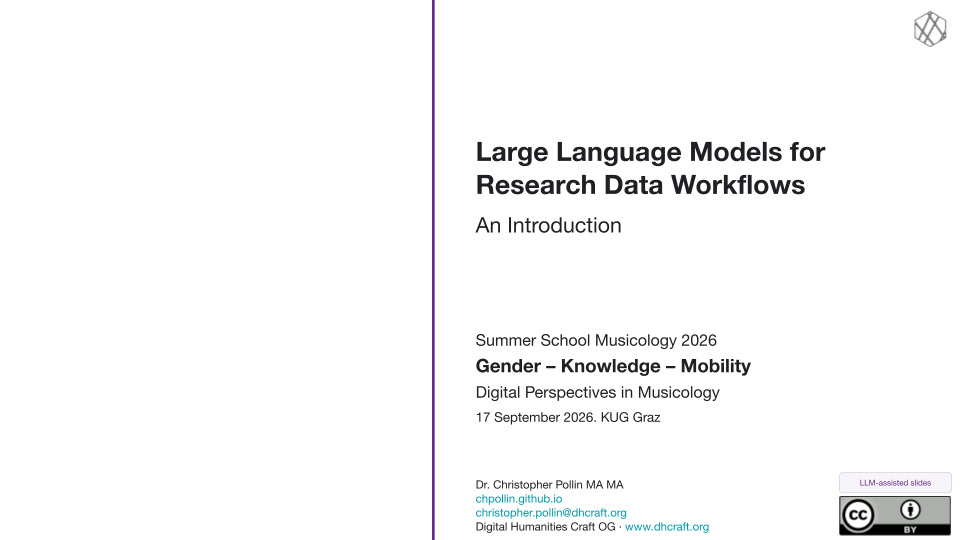
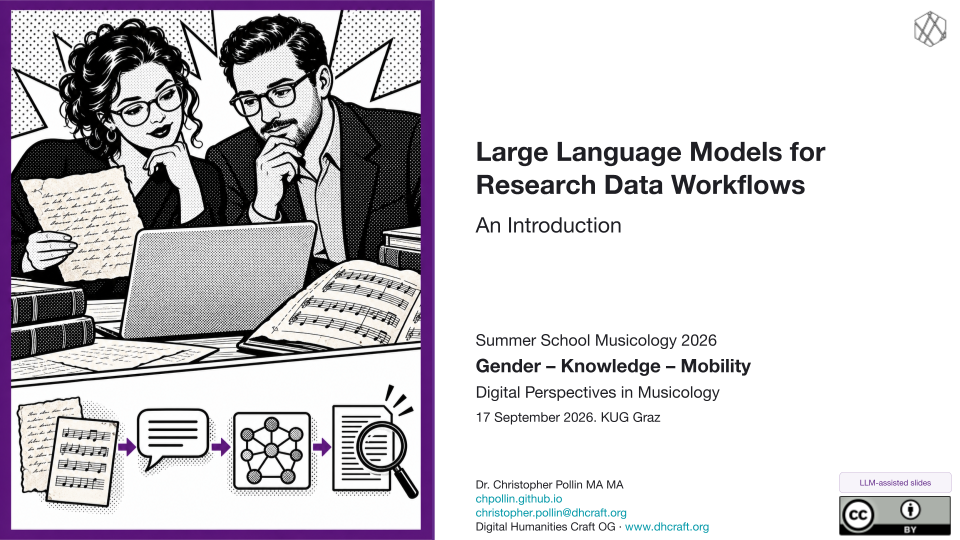
Übungsfolge vereinheitlichen und bestehende Titelfolien illustrieren

Changed region(s): [[0.0, 0.0, 0.4688, 1.0]]

diff --git a/index.html b/index.html
@@ -25,7 +25,7 @@
 <p class="byline">Christopher Pollin · Digital Humanities Craft · University of Music and Performing Arts Graz · 16 and 17 September 2026</p>
 <div class="actions"><a class="button" href="#sessions">Go to the sessions</a><a class="button secondary" href="#downloads">Downloads</a></div>
 </div>
-<section id="sessions"><h2 class="visually-hidden">Sessions</h2><div class="grid"><a class="card" href="#session-1"><img src="assets/slides/session-1.png" width="960" height="540" alt="" decoding="async"><span class="number">Session 1 · Wed 16 Sep · 17:00–19:00</span><h3>Making Estate Materials Digitally Accessible</h3><p>Archival sources and research data</p></a><a class="card" href="#session-2"><img src="assets/slides/session-2.png" width="960" height="540" alt="" decoding="async"><span class="number">Session 2 · Thu 17 Sep · 11:30–13:00</span><h3>Large Language Models for Research Data Workflows: An Introduction</h3><p>Models, prompts and context</p></a><a class="card" href="#session-3"><img src="assets/slides/session-3.png" width="960" height="540" alt="" decoding="async"><span class="number">Sessions 3 and 4 · Thu 17 Sep · 15:00–16:30 and 17:00–18:30</span><h3>Large Language Models for Research Data Workflows: Hands-On Practice</h3><p>Promptotyping · guided practice and independent work</p></a></div></section>
+<section id="sessions"><h2 class="visually-hidden">Sessions</h2><div class="grid session-cards"><a class="card" href="#session-1"><img src="assets/slides/session-1.png" width="960" height="540" alt="" decoding="async"><span class="number">Session 1</span><span class="small">Wed 16 Sep · 17:00–19:00</span><h3>Making Estate Materials Digitally Accessible</h3><p>Archival sources and research data</p></a><a class="card" href="#session-2"><img src="assets/slides/session-2.png" width="960" height="540" alt="" decoding="async"><span class="number">Session 2</span><span class="small">Thu 17 Sep · 11:30–13:00</span><h3>Large Language Models for Research Data Workflows: An Introduction</h3><p>Models, prompts and context</p></a><a class="card" href="#session-3"><img src="assets/slides/session-3.png" width="960" height="540" alt="" decoding="async"><span class="number">Sessions 3 and 4</span><span class="small">Thu 17 Sep · 15:00–16:30 and 17:00–18:30</span><h3>Large Language Models for Research Data Workflows: Hands-On Practice</h3><p>Promptotyping · guided practice and independent work</p></a></div></section>
 <section id="session-1" class="session">
 <p class="eyebrow">Session 1 · Wednesday 16 September · 17:00–19:00</p>
 <h2>Making Estate Materials Digitally Accessible</h2>
@@ -34,7 +34,7 @@
 <div class="actions"><a class="button" href="https://docs.google.com/presentation/d/1vMd2UfI9MydUEN6MMOYT0LZcJ6MYv2DmK9AQbyzJ7xc/preview">Open slides</a><a class="button secondary" href="https://docs.google.com/presentation/d/1vMd2UfI9MydUEN6MMOYT0LZcJ6MYv2DmK9AQbyzJ7xc/export/pdf">Slides PDF</a><a class="button" href="https://docs.google.com/document/d/1DU6UbE4xURFZ3fkPn7MD2loZ2naPysFYX1ypeI0D_Kg/preview">Lecture notes</a><a class="button secondary" href="https://docs.google.com/document/d/1DU6UbE4xURFZ3fkPn7MD2loZ2naPysFYX1ypeI0D_Kg/export?format=pdf">Notes PDF</a></div>
 <details class="slides-embed"><summary>Show the slides on this page</summary><iframe class="embed slides" src="https://docs.google.com/presentation/d/1vMd2UfI9MydUEN6MMOYT0LZcJ6MYv2DmK9AQbyzJ7xc/embed?start=false&amp;loop=false&amp;delayms=3000" title="Session 1 slides" allowfullscreen loading="lazy"></iframe></details>
 <div class="panel"><h3>From XML to IIIF</h3><p>Combine your XML metadata and images, generate a manifest with Python, and inspect the result in Mirador. The viewer also accepts the XML directly.</p><div class="actions"><a class="button" href="tools/iiif-viewer/">Open the IIIF viewer</a><a class="button secondary" href="downloads/xml-iiif-workshop.zip">Download Python + IIIF package</a></div><p class="small">Script, XML template, two synthetic example images and an English guide.</p></div>
-<ul class="resources"><li><a href="downloads/pdf-to-images.zip">PDF to images · Python exercise package</a><br><span class="small">Script, two-page source PDF and instructions.</span></li><li><a href="https://drive.google.com/drive/folders/1Q5iiPsBfiaAWOK7Tuy9Z5LyiO0EUaZFJ">Source images and shared exercise files on Google Drive</a></li><li><a href="downloads/shared/schulnachricht.jpg">Schulnachricht · source image</a></li></ul>
+<ul class="resources"><li><a href="downloads/pdf-to-images.zip">PDF to images · Python exercise package</a><br><span class="small">Script, two-page source PDF and instructions.</span></li><li><a href="downloads/shared/schulnachricht.jpg">Schulnachricht · source image</a></li></ul>
 </section>
 <section id="session-2" class="session">
 <p class="eyebrow">Session 2 · Thursday 17 September · 11:30–13:00</p>
@@ -44,38 +44,60 @@
 <div class="actions"><a class="button" href="https://docs.google.com/presentation/d/1GUzZEVdCq2gRphzXIsnZ1Gg_4bGdqYy_aiwl8kErJUc/preview">Open slides</a><a class="button secondary" href="https://docs.google.com/presentation/d/1GUzZEVdCq2gRphzXIsnZ1Gg_4bGdqYy_aiwl8kErJUc/export/pdf">Slides PDF</a><a class="button" href="https://docs.google.com/document/d/18DUWW5ju8R827mf7LNPU_zSoxd2R8WF8ienI8fCcFrM/preview">Lecture notes</a><a class="button secondary" href="https://docs.google.com/document/d/18DUWW5ju8R827mf7LNPU_zSoxd2R8WF8ienI8fCcFrM/export?format=pdf">Notes PDF</a></div>
 <details class="slides-embed"><summary>Show the slides on this page</summary><iframe class="embed slides" src="https://docs.google.com/presentation/d/1GUzZEVdCq2gRphzXIsnZ1Gg_4bGdqYy_aiwl8kErJUc/embed?start=false&amp;loop=false&amp;delayms=3000" title="Session 2 slides" allowfullscreen loading="lazy"></iframe></details>
 <div class="panel"><p class="eyebrow">Session 2 · Extended hands-on</p><h3>From Facsimiles to TEI</h3><p>Create complete transcriptions, extract document metadata and combine both in simple TEI-XML. Work through seven documents with 40 scan pages and keep the images linked for Session 3.</p><div class="actions"><a class="button" href="materials/m3gim-fulltext.html">Open the exercise &amp; downloads</a></div><p class="small">PDFs, PNGs, prompts, a TEI template, a local checker and complete reference files.</p></div>
-<ul class="resources"><li><a href="https://docs.google.com/presentation/d/19zybf1mABP3qM65GXv0xEGVososbhM03P9_INInYPj8/preview">Technical preparation slides</a></li><li><a href="https://drive.google.com/drive/folders/1Q5iiPsBfiaAWOK7Tuy9Z5LyiO0EUaZFJ">Shared source material and exercise files</a></li></ul>
+<ul class="resources"><li><a href="https://docs.google.com/presentation/d/19zybf1mABP3qM65GXv0xEGVososbhM03P9_INInYPj8/preview">Technical preparation slides</a></li></ul>
 </section>
 <section id="session-3" class="session">
 <p class="eyebrow">Sessions 3 and 4 · Thursday 17 September · 15:00–16:30 and 17:00–18:30</p>
 <h2>Large Language Models for Research Data Workflows: Hands-On Practice</h2>
-<p class="lead">Use LLMs for coding and build small research tools through Promptotyping. Maintain project knowledge, select useful context and guide tool-supported agent work with checks and feedback.</p>
-<div class="grid"><article class="panel"><h3>Session 3 · Guided hands-on · 15:00–16:30</h3><p>Work through a cumulative exercise with the supplied research materials. Inspect the inputs, document the requirements, use an agent to implement a first working tool and check the result together.</p></article><article class="panel" id="session-4"><h3>Session 4 · Independent work · 17:00–18:30</h3><p>Continue from the guided exercise. Choose a research requirement, provide the relevant project context, implement it with the agent and inspect the result against the sources.</p></article></div><p class="small">Both sessions use the same slide deck and lecture notes.</p>
+<p class="lead">Use LLMs for coding and build small research tools through Promptotyping.</p>
+<div class="grid"><article class="panel"><h3>Session 3 · Guided hands-on · 15:00–16:30</h3><p>Run the supplied PDF-to-PNG workflow yourself, repeat it with an agent, then use LLMs for coding a small research tool. Document requirements and check each result together.</p></article><article class="panel" id="session-4"><h3>Session 4 · Independent work · 17:00–18:30</h3><p>Continue from the guided exercise with a research requirement of your choice. Maintain the project knowledge, select the context for each task and use the agent to implement and check your changes.</p></article></div><p class="small">Both sessions use the same slide deck and lecture notes.</p>
 <div class="actions"><a class="button" href="https://docs.google.com/presentation/d/1IOCdHFnlxyNuMwiyUNviyQ53KwD13k4_tRXpieXHgOo/preview">Open slides</a><a class="button secondary" href="https://docs.google.com/presentation/d/1IOCdHFnlxyNuMwiyUNviyQ53KwD13k4_tRXpieXHgOo/export/pdf">Slides PDF</a><a class="button" href="https://docs.google.com/document/d/138Kl6CCtpZI3BM6VHGEgpFuZPVZJTfJT5FH8ASIdHPA/preview">Lecture notes</a><a class="button secondary" href="https://docs.google.com/document/d/138Kl6CCtpZI3BM6VHGEgpFuZPVZJTfJT5FH8ASIdHPA/export?format=pdf">Notes PDF</a></div>
 <details class="slides-embed"><summary>Show the slides on this page</summary><iframe class="embed slides" src="https://docs.google.com/presentation/d/1IOCdHFnlxyNuMwiyUNviyQ53KwD13k4_tRXpieXHgOo/embed?start=false&amp;loop=false&amp;delayms=3000" title="Sessions 3 and 4 slides" allowfullscreen loading="lazy"></iframe></details>
-<div class="panel"><h3>Continue with your TEI corpus</h3><p>Bring the seven TEI files and 40 PNGs prepared in Session 2. Keep the <code>tei/</code> and <code>png/</code> folders together so the image links remain usable.</p><div class="actions"><a class="button secondary" href="materials/m3gim-fulltext.html#next-session">Corpus layout &amp; reference bundle</a></div></div>
-<ul class="resources"><li><a href="downloads/python-vscode.zip">Hands-on 1 · Python in Visual Studio Code · ZIP</a><br><span class="small">Instructions, Python script and all seven input PDFs.</span></li><li><a href="downloads/ai-harness.zip">Hands-on 2 · AI Harness · ZIP</a><br><span class="small">Repeat the same workflow with an agent using the supplied script and PDFs.</span></li><li><a href="https://drive.google.com/drive/folders/1KhFwP1L1iUO6PBKQZGP4p8rxU2vZSfG0">Original exercise folders on Google Drive</a></li><li><a href="https://drive.google.com/drive/folders/1bS_F8yDOWWK89cLeFzj6nFxz9GBH18Qa">Hands-on 1 · Python in Visual Studio Code</a></li><li><a href="https://drive.google.com/drive/folders/1tbZvvloLe4gZ5IBe9gsqqQfiiScgbP3F">Hands-on 2 · AI Harness</a></li><li><a href="https://drive.google.com/drive/folders/1Q5iiPsBfiaAWOK7Tuy9Z5LyiO0EUaZFJ">Shared source material and exercise files</a></li></ul>
+<div class="panel">
+<h3>From running a workflow to building a research tool</h3>
+<p>We return to PDF-to-PNG conversion to compare how you and an agent execute the same task. The TEI corpus from Session 2 becomes input for the tool-building exercise in step 3.</p>
+<ol class="workflow">
+<li><strong>Run the workflow yourself.</strong> Open the first package in Visual Studio Code, follow its guide and run the supplied script. Inspect the generated images against the PDFs.<br><a href="downloads/python-vscode.zip">Hands-on 1 · Python in Visual Studio Code · ZIP</a></li>
+<li><strong>Repeat the workflow with an agent.</strong> Give the agent the same task, script and PDFs. Observe its tool use, inspect the outputs and compare them with your first run.<br><a href="downloads/ai-harness.zip">Hands-on 2 · AI Harness · ZIP</a></li>
+<li><strong>Use LLMs for coding through Promptotyping.</strong> State a research requirement and record the relevant data, constraints and checks. Reuse your TEI files and images from Session 2 to implement and inspect a first tool together. A source viewer is the worked example.<br><a href="materials/m3gim-fulltext.html#next-session">TEI corpus layout &amp; reference bundle</a></li>
+<li><strong>Continue independently in Session 4.</strong> Choose a requirement for your own research tool or extend the guided example. Supply the relevant context, inspect the agent’s changes and verify the result against the data. Record what works and what remains uncertain.</li>
+</ol>
+<p class="small">Both hands-on ZIPs contain their guide, the supplied Python script and all seven input PDFs. Keep your Session 2 <code>tei/</code> and <code>png/</code> folders together so the image links remain usable.</p>
+<h3>Practices used throughout</h3>
+<dl class="practices"><dt>Knowledge Engineering</dt><dd>Maintain project knowledge about the research purpose, data, requirements, decisions and checks.</dd><dt>Context Engineering</dt><dd>Select the instructions, source material and project knowledge needed for the current task.</dd><dt>Agentic Engineering</dt><dd>Guide the agent’s tool use, inspect its actions and results, and provide feedback for the next change.</dd></dl>
+</div>
+
 </section>
 <section id="downloads">
 <h2>Downloads</h2>
+<p>Choose the package for the current exercise. Reference solutions and additional examples are listed separately below.</p>
+<h3>Exercise starter packages</h3>
 <ul class="resources">
 <li><a href="downloads/xml-iiif-workshop.zip" download>XML to IIIF · Python package</a><br><span class="small">Session 1 · script, XML template, two example images and guide.</span></li>
 <li><a href="downloads/pdf-to-images.zip" download>PDF pages as images · Python package</a><br><span class="small">Session 1 · script, two-page source PDF and instructions.</span></li>
-<li><a href="materials/m3gim-fulltext.html">M³GIM · From Facsimiles to TEI</a><br><span class="small">Sessions 2–4 · PDFs, PNGs, prompts, TEI template, checker and reference files.</span></li>
-<li><a href="tools/iiif-viewer/">IIIF viewer</a><br><span class="small">Open your XML or manifest with its images in Mirador.</span></li>
-<li><a href="https://docs.google.com/presentation/d/19zybf1mABP3qM65GXv0xEGVososbhM03P9_INInYPj8/preview">Technical preparation slides</a></li>
-<li><a href="https://drive.google.com/drive/folders/1TaqB-BvNt20uAvOCCnQMQBk_2cV0gLjW">Course material folder on Google Drive</a></li>
-<li><a href="downloads/python-vscode.zip">Hands-on 1 · Python in Visual Studio Code · ZIP</a></li>
-<li><a href="downloads/ai-harness.zip">Hands-on 2 · AI Harness · ZIP</a></li>
+<li><a href="materials/m3gim-fulltext.html#materials">M³GIM · From Facsimiles to TEI · exercise &amp; starter files</a><br><span class="small">Session 2 · source PDFs, PNGs, prompts, TEI template and checker.</span></li>
+<li><a href="downloads/python-vscode.zip">Hands-on 1 · Python in Visual Studio Code · ZIP</a><br><span class="small">Session 3 · run the supplied PDF-to-PNG script yourself; guide and all seven PDFs included.</span></li>
+<li><a href="downloads/ai-harness.zip">Hands-on 2 · AI Harness · ZIP</a><br><span class="small">Session 3 · repeat the same workflow with an agent; guide, script and PDFs included.</span></li>
+</ul>
+<h3>Reference solutions</h3>
+<ul class="resources">
+<li><a href="materials/m3gim-fulltext.html#reference">M³GIM · TEI, metadata and full texts</a><br><span class="small">Compare your work with the reference and resolve differences against the facsimiles.</span></li>
+<li><a href="downloads/m3gim-fulltext/m3gim-next-session.zip">Reference TEI + all images · ZIP</a><br><span class="small">Sessions 3 and 4 · complete corpus for tool building, with working relative image links.</span></li>
+</ul>
+<h3>Additional examples and source material</h3>
+<ul class="resources">
 <li><a href="downloads/shared-materials.zip">Additional source material and examples · ZIP</a><br><span class="small">Source image, prompts, place lookup, poster text, person-index exercise and map demo.</span></li>
+<li><a href="tools/iiif-viewer/">IIIF viewer</a><br><span class="small">Open your XML or manifest with its images in Mirador.</span></li>
+</ul>
+<details><summary>Download individual additional files</summary><ul class="resources">
 <li><a href="downloads/shared/schulnachricht.jpg">Schulnachricht · source image</a></li>
 <li><a href="downloads/shared/prompts.md">Bayreuth 1953 · additional extraction and prototype prompts</a></li>
 <li><a href="downloads/shared/orte-lookup.csv">Place lookup · CSV</a></li>
 <li><a href="downloads/shared/plakattext-pl04.txt">Poster text · TXT</a></li>
 <li><a href="downloads/shared/personenindex-uebung.xlsx">Person-index exercise · XLSX</a></li>
 <li><a href="downloads/shared/m3gim-map-demo.zip">Additional map example · ZIP</a></li>
-<li><a href="https://drive.google.com/drive/folders/1Q5iiPsBfiaAWOK7Tuy9Z5LyiO0EUaZFJ">Original shared files on Google Drive</a></li>
-</ul>
+</ul></details>
+<p class="small"><a href="https://docs.google.com/presentation/d/19zybf1mABP3qM65GXv0xEGVososbhM03P9_INInYPj8/preview">Technical preparation slides</a> · <a href="https://drive.google.com/drive/folders/1TaqB-BvNt20uAvOCCnQMQBk_2cV0gLjW">Original course folders on Google Drive</a></p>
 </section>
 </main>
 <footer><div class="wrap">

diff --git a/assets/site.css b/assets/site.css
@@ -68,6 +68,7 @@
   nav { display: flex; gap: var(--space-2) var(--space-5); flex-wrap: wrap; font-size: 0.9375rem; }
   .hero { padding-block: clamp(2rem, 5vw, 4rem) clamp(1.5rem, 3vw, 2.5rem); max-inline-size: 60rem; }
   .grid { display: grid; grid-template-columns: repeat(auto-fit, minmax(min(100%, var(--card-min)), 1fr)); gap: var(--space-5); }
+  .session-cards { --card-min: 19rem; }
   .session { border-block-start: 1px solid var(--line); padding-block-start: var(--space-6); }
   .session-nav { display: flex; justify-content: space-between; flex-wrap: wrap; gap: var(--space-4); border-block-start: 1px solid var(--line); padding-block-start: var(--space-5); margin-block: var(--space-6); }
   footer { border-block-start: 1px solid var(--line); margin-block-start: var(--space-6); padding-block: var(--space-5) var(--space-6); font-size: var(--text-s); color: var(--muted); }
@@ -91,6 +92,9 @@
   .card .number { color: var(--accent); font-size: 0.8125rem; font-weight: 750; letter-spacing: 0.06em; }
   .card h3 { margin-block: 0; }
   .card p { margin-block: 0; color: var(--muted); }
+  .session-cards .card { padding: var(--space-4); gap: var(--space-2); }
+  .session-cards h3 { font-size: 1.125rem; text-wrap: pretty; }
+  .session-cards .card p { font-size: var(--text-s); }
   .panel { background: var(--tint); padding: var(--space-5); border-radius: var(--radius); margin-block: var(--space-4); }
   .actions { display: flex; flex-wrap: wrap; gap: var(--space-3); margin-block: var(--space-4); }
   .button { display: inline-block; padding: 0.625rem 1.125rem; border-radius: 7px; background: var(--accent); color: var(--surface); text-decoration: none; font-size: 0.9375rem; font-weight: 650; border: 1px solid var(--accent); cursor: pointer; }
@@ -104,6 +108,9 @@
   .workflow { max-inline-size: 56rem; padding-inline-start: 1.4em; }
   .workflow li { margin-block-end: var(--space-4); padding-inline-start: var(--space-1); }
   .workflow-line { color: var(--accent); font-weight: 650; }
+  .practices { margin-block: var(--space-4) 0; max-inline-size: 56rem; }
+  .practices dt { font-weight: 650; }
+  .practices dd { margin-inline-start: 0; margin-block: 0 var(--space-3); }
   .metadata-table { inline-size: 100%; border-collapse: collapse; text-align: start; font-size: 0.9375rem; }
   .metadata-table th, .metadata-table td { padding: var(--space-3); border-block-end: 1px solid var(--line); vertical-align: top; }
   .metadata-table thead { background: var(--tint); }

diff --git a/knowledge/journal.md b/knowledge/journal.md
@@ -15,13 +15,21 @@ related: [handoff, project, specification]
 
 # Journal
 
+Curated provenance index of the course website, read alongside `project.md` and `specification.md` for the current state and `handoff.md` for open handover points.
+
+## 2026-09-15 · integriert · Übungsfolge, Titelbilder und Materialzugang
+
+Auf Nutzerauftrag wurden Website, gemeinsame Lecture Notes und Hands-on-Anleitungen auf dieselbe Übungsfolge abgestimmt. Eigene Skriptausführung und Agentenausführung bereiten den Bau eines kleinen Forschungswerkzeugs durch Promptotyping vor. Session 4 führt die Arbeit mit einer selbstgewählten Forschungsanforderung fort. Der vorhandene Abschnitt 1.2 mit Quellenanmerkungen [8]–[12] sowie native Fußnoten und Dokumentchips blieben erhalten. Alle elf exportierten Notes-Seiten wurden visuell geprüft. Der Folienchip führt zum gemeinsamen Deck, zeigt jedoch weiterhin seinen von Google zwischengespeicherten früheren Titel.
+
+Die Kursseite erhielt drei kompakte Übersichtskarten und gegliederte Downloads. Zwei mit dem integrierten Imagegen-Werkzeug erzeugte Pop-Art-Illustrationen ergänzen die vorhandenen Titelfolien. Bestehende Titelobjekte blieben unverändert; gleichzeitig erfolgte externe Änderungen innerhalb von Session 2 wurden erhalten. Prompts und Strukturprüfung liegen bei den Bilddateien. Der alte Session-4-Foliensatz und dessen Reader wurden in den benachbarten Drive-Ordner `1HqmFO4TNbQmGIH8JBFc_Ua780GcYqaxV` verschoben, die Kursmaterialien einheitlich benannt.
+
+Beide Anleitungen wurden unter ihren bestehenden Drive-IDs aktualisiert und durch erneuten Download bytegenau geprüft. Die neu gepackten ZIPs enthalten jeweils dieselben neun Dateien wie die lokalen Quellen. Der bereitgestellte Konverter verarbeitete alle sieben PDFs zu 40 PNG-Seiten ohne Fehler. Build- und lokale Linkprüfung bestanden; die aktualisierten Titel wurden visuell geprüft. Die fachliche Abnahme der Lehrkonzeption bleibt beim Lehrenden.
+
 ## 2026-09-15 · integriert · Gemeinsame Materialien für Session 3 und 4
 
 Auf Nutzerauftrag wurden Session 3 und 4 einem vorhandenen gemeinsamen Deck und gemeinsamen Lecture Notes zugeordnet. Die angeleitete, aufbauende Übung geht in selbständiges Arbeiten über. Das bestätigte Hauptziel ist die Nutzung von LLMs zum Programmieren und zum Bau kleiner Forschungswerkzeuge durch Promptotyping. Die vorhandene Lernzielfolie wurde entsprechend korrigiert; Folienbestand und Reihenfolge blieben identisch. Der gelieferte Abschnitt zu Context Engineering, Agentic Engineering und AI Harnesses einschließlich seiner Quellenanmerkungen wurde in die Notes integriert und um die Einordnung von Knowledge Engineering ergänzt. Allgemeine Inhalte des älteren Session-4-Skripts gingen in den Abschnitt zum selbständigen Arbeiten ein; dessen festgelegter Cast Explorer wurde als Pflichtziel aufgehoben.
 
 Die Website führt beide ursprünglichen Zeitblöcke und gemeinsame Dokumentlinks. Gespeicherte Dateien aus den Drive-Unterordnern wurden als direkte Downloads ergänzt. Die PDF-Kopien beider Hands-on-Pakete stimmen per SHA-256 mit den bereits veröffentlichten Quellen überein; jede Herkunft ist in `downloads/drive-materials.json` nachgewiesen. Die ZIPs wurden auf Vollständigkeit geprüft, die Website mit dem Build- und Linkcheck sowie im Browser und die geänderte Lernzielfolie visuell kontrolliert. Die übertragenen Python-Skripte wurden dabei nicht erneut ausgeführt. Der ursprüngliche Session-4-Reader bleibt als Quelldokument in Drive erhalten.
-
-Curated provenance index of the course website, read alongside `project.md` and `specification.md` for the current state and `handoff.md` for open handover points.
 
 ## 2026-09-15 · integrated · Repository created with Codex
 

diff --git a/README.md b/README.md
@@ -10,7 +10,7 @@ Gemeinsame Lehrwebsite für Christophers vier Sessions am 16. und 17. September 
 - `materials/m3gim-fulltext.html`: die M³GIM-Übung; `sessions/` und `materials/index.html` sind Weiterleitungen auf die Anker der Kursseite.
 - `tools/iiif-viewer/`: XML-/IIIF-Dateiauswahl und Mirador.
 - `downloads/`: Python-/IIIF-Paket, PDF-zu-Bildern-Übung und M³GIM-Paket.
-- `assets/`: Stylesheet, Favicon und die Titelfolien unter `assets/slides/`.
+- `assets/`: Stylesheet, Favicon und die Titelfolien unter `assets/slides/`; die neuen Illustrationen und ihre Generierungsprompts liegen unter `assets/illustrations/`.
 - `scripts/sessions.mjs`: das Materialverzeichnis der Sessions; `scripts/build-site.mjs` erzeugt daraus alle Seiten, `--check` prüft Drift und lokale Links; `scripts/fetch-title-slides.mjs` holt die Titelfolien; `scripts/build-iiif-package.py` packt das IIIF-Paket.
 - `knowledge/`: Projektwissen nach der Promptotyping-Konvention, Einstieg über `knowledge/INDEX.md`.
 
@@ -20,7 +20,11 @@ Die Titel und IDs wurden am 15. September 2026 im Google-Drive-Kursordner abgegl
 
 Google Drive bleibt der Bearbeitungsort der nativen Dokumente. Einbettungen und PDF-Exportlinks zeigen auf die aktuellen Google-Dokumente. Die Website verändert deren Freigaben nicht. Die gespeicherten Übungsdateien aus den Unterordnern liegen zusätzlich als direkte Downloads vor. `downloads/drive-materials.json` dokumentiert ihre Herkunft. Die Programm-PDFs aus beiden Hands-on-Ordnern wurden per SHA-256 mit den bestehenden lokalen PDFs verglichen und stimmen bytegenau überein.
 
-`downloads/python-vscode.zip` und `downloads/ai-harness.zip` enthalten jeweils Anleitung, unverändertes Python-Skript und die sieben PDFs im Unterordner `input/`. `downloads/shared-materials.zip` enthält die sechs Dateien des Drive-Datenordners; sie sind außerdem einzeln unter `downloads/shared/` erreichbar. Die dortige Schulnachricht trägt die Endung `.jpg`, weil die in Drive als `.png` benannte Datei JPEG-Daten enthält. Die ergänzenden Extraktionsprompts und das Kartenbeispiel legen kein Pflichtziel für die selbständige Arbeit fest. Die bereitgestellten Skripte wurden in dieser Übertragung nicht erneut ausgeführt.
+`downloads/python-vscode.zip` und `downloads/ai-harness.zip` enthalten jeweils Anleitung, unverändertes Python-Skript und die sieben PDFs im Unterordner `input/`. Die Anleitungen erläutern den Übergang von eigener Skriptausführung über die Ausführung durch einen Agenten zum Programmieren mit einem LLM. Sie sind in Drive und den ZIPs bytegleich. Der Konverter wurde mit allen sieben PDFs ausgeführt und erzeugte 40 PNG-Seiten ohne Fehler.
+
+`downloads/shared-materials.zip` enthält die sechs Dateien des Drive-Datenordners; sie sind außerdem einzeln unter `downloads/shared/` erreichbar. Die dortige Schulnachricht trägt die Endung `.jpg`, weil die in Drive als `.png` benannte Datei JPEG-Daten enthält. Die ergänzenden Extraktionsprompts und das Kartenbeispiel legen kein Pflichtziel für die selbständige Arbeit fest.
+
+Die aktuellen Drive-Dateien tragen einheitliche Session- und Materialbezeichnungen. Das frühere Session-4-Deck und dessen Reader liegen unverändert im benachbarten Ordner [Superseded Materials](https://drive.google.com/drive/folders/1HqmFO4TNbQmGIH8JBFc_Ua780GcYqaxV). Die Kursübersicht zeigt ausschließlich die aktuellen Materialien. Die neuen Titelillustrationen wurden in die vorhandenen Titelfolien von Session 2 und Sessions 3 und 4 eingefügt. Es wurden keine Folien erzeugt.
 
 Kursordner: https://drive.google.com/drive/folders/1TaqB-BvNt20uAvOCCnQMQBk_2cV0gLjW
 

diff --git a/downloads/ai-harness/README.md b/downloads/ai-harness/README.md
@@ -3,10 +3,16 @@
 Ask an AI agent in a harness with access to local files and a terminal to execute
 the same PDF-to-image workflow. Both hands-ons contain the same Python script
 and the same source PDFs.
+Complete Hands-on 1 first so that you can compare the agent's actions and
+results with your own execution.
 
 ## Folder structure
 
-Download the **whole exercise folder** from Google Drive and extract the ZIP file.
+Download [Hands-on 2 from the course website](https://chpollin.github.io/summer-school-musicology-2026/downloads/ai-harness.zip)
+and extract the ZIP file separately from Hands-on 1. If you are already reading
+this README in the extracted folder, continue below. The
+[original Google Drive folder](https://drive.google.com/drive/folders/1tbZvvloLe4gZ5IBe9gsqqQfiiScgbP3F)
+is an alternative download source.
 Open the extracted folder that contains `pdf_to_images.py`. Keep the script and
 `input` together:
 
@@ -31,7 +37,7 @@ search nested input folders.
 
 ## Run the workflow with an AI harness
 
-1. Download and extract this exercise folder separately from Hands-on 1.
+1. Use the extracted folder for Hands-on 2, keeping the Hands-on 1 result separate.
 2. Open it as the working folder in your AI harness. The agent needs access to
    the folder containing `pdf_to_images.py` and `input/`, and to a terminal.
 3. Give the agent this task:
@@ -44,7 +50,8 @@ search nested input folders.
 > one image per page. Preserve all source PDFs. Check the terminal summary,
 > verify the image count for each PDF against its page count, and inspect sample
 > images for orientation and readability. Report the output location and any
-> errors. If output/ already exists, use a new output folder.
+> errors. Distinguish checks you executed from checks that require my inspection.
+> If output/ already exists, use a new output folder.
 
 4. Follow the agent's actions: reading the script, preparing dependencies,
    running the command, inspecting files and reporting results.
@@ -96,3 +103,16 @@ To change the resolution or input folder:
 python pdf_to_images.py --input input --output output-300dpi --dpi 300
 ```
 
+## Continue to Programming with an LLM
+
+You have now used an agent to execute an existing script. The next guided step
+uses an LLM to write code for a small research tool through Promptotyping.
+Return to [Sessions 3 and 4 on the course website](https://chpollin.github.io/summer-school-musicology-2026/#session-3)
+and follow the shared Lecture Notes. Use the TEI XML and matching PNG images
+from Session 2 for the source-viewer example. The PDF-to-image outputs alone
+do not include transcriptions or TEI.
+
+Record the purpose, input relationships and display decisions in `project.md`.
+Give the agent the relevant context, inspect the resulting tool against a source
+example and return concrete feedback. Session 4 continues with a research
+requirement you choose yourself.

diff --git a/knowledge/specification.md b/knowledge/specification.md
@@ -35,7 +35,11 @@ Adding, merging or removing a session is an edit of the array in `scripts/sessio
 
 Sessions 3 and 4 share the existing deck `1IOCdHFnlxyNuMwiyUNviyQ53KwD13k4_tRXpieXHgOo` and lecture notes `138Kl6CCtpZI3BM6VHGEgpFuZPVZJTfJT5FH8ASIdHPA`. One course section shows the two original time blocks. Session 3 provides cumulative guided practice and Session 4 continues with independent work. Their main objective is to use LLMs for coding and build small research tools through Promptotyping, supported by Knowledge Engineering, Context Engineering and Agentic Engineering. The source viewer is an exercise example. The old Session 4 URL and page anchor remain usable.
 
-Stored files from the Drive exercise folders are mirrored as direct downloads, with provenance in `downloads/drive-materials.json`. The two hands-on ZIPs each include their original guide and script and all seven input PDFs. Additional source material remains individually downloadable and bundled. Native Slides and Docs continue to use live links and export links.
+Stored files from the Drive exercise folders are mirrored as direct downloads, with provenance in `downloads/drive-materials.json`. The two hands-on ZIPs each include their updated guide, unchanged script and all seven input PDFs. The guides are synchronised with their original Drive file IDs. Additional source material remains individually downloadable and bundled. Native Slides and Docs continue to use live links and export links.
+
+The guided sequence first executes the supplied PDF-to-PNG script manually, repeats this operation with an agent, then introduces LLM coding through Promptotyping. The third step reuses the TEI files and images from Session 2 for a source-viewer example. Session 4 allows participants to extend that example or implement another research requirement. The website and common lecture notes express the same sequence. Downloads are grouped into exercise starters, reference solutions and additional materials.
+
+The overview uses a dedicated compact card grid, with three equal columns when space permits. The existing Session 2 and Sessions 3 and 4 title slides contain generated illustrations whose source assets and prompts are preserved under `assets/illustrations/`. Existing slide objects are retained. The previous Session 4 deck and reader remain in the sibling Drive folder `1HqmFO4TNbQmGIH8JBFc_Ua780GcYqaxV`; course-folder files have consistent session and material labels.
 
 ## Design
 

diff --git a/downloads/python-vscode/README.md b/downloads/python-vscode/README.md
@@ -1,10 +1,16 @@
 # Hands-on 1: Python in Visual Studio Code
 
 Render every page of every input PDF as a PNG image using the provided script.
+This is the first step of the guided exercise in Session 3. Afterwards, repeat
+the workflow with an AI agent in Hands-on 2, then use an LLM to program a small
+research tool with the source materials from Session 2.
 
 ## Folder structure
 
-Download the **whole exercise folder** from Google Drive and extract the ZIP file.
+Download [Hands-on 1 from the course website](https://chpollin.github.io/summer-school-musicology-2026/downloads/python-vscode.zip)
+and extract the ZIP file. If you are already reading this README in the extracted
+folder, continue below. The [original Google Drive folder](https://drive.google.com/drive/folders/1bS_F8yDOWWK89cLeFzj6nFxz9GBH18Qa)
+is an alternative download source.
 Open the extracted folder that contains `pdf_to_images.py`. Keep the script and
 `input` together:
 
@@ -94,3 +100,8 @@ To change the resolution or input folder:
 python pdf_to_images.py --input input --output output-300dpi --dpi 300
 ```
 
+## Continue to Hands-on 2
+
+Download the separate [AI Harness package](https://chpollin.github.io/summer-school-musicology-2026/downloads/ai-harness.zip).
+It contains the same script and PDFs, so you can compare your own execution
+with the agent's actions and checks. Keep this first result for comparison.
